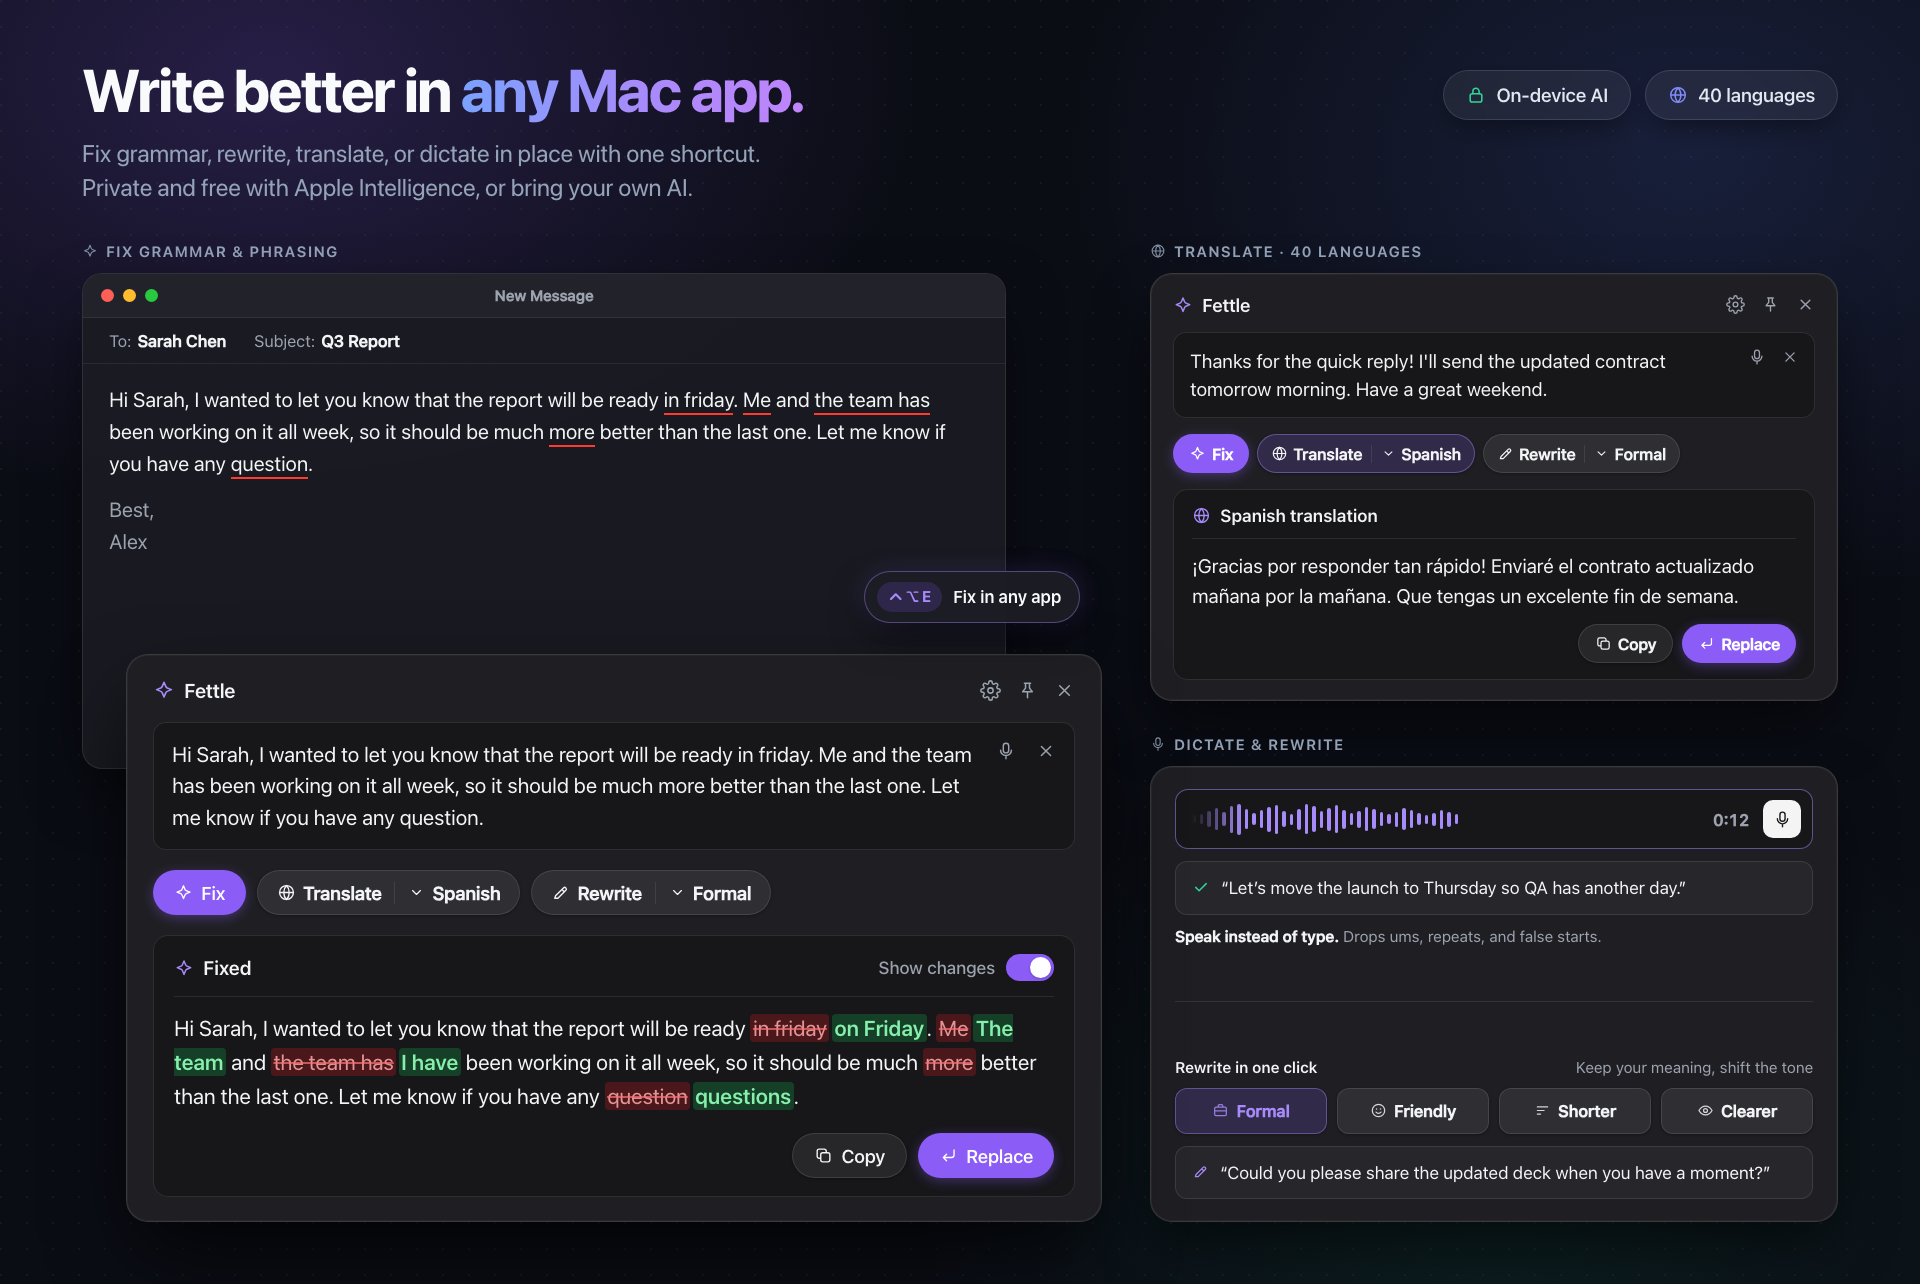
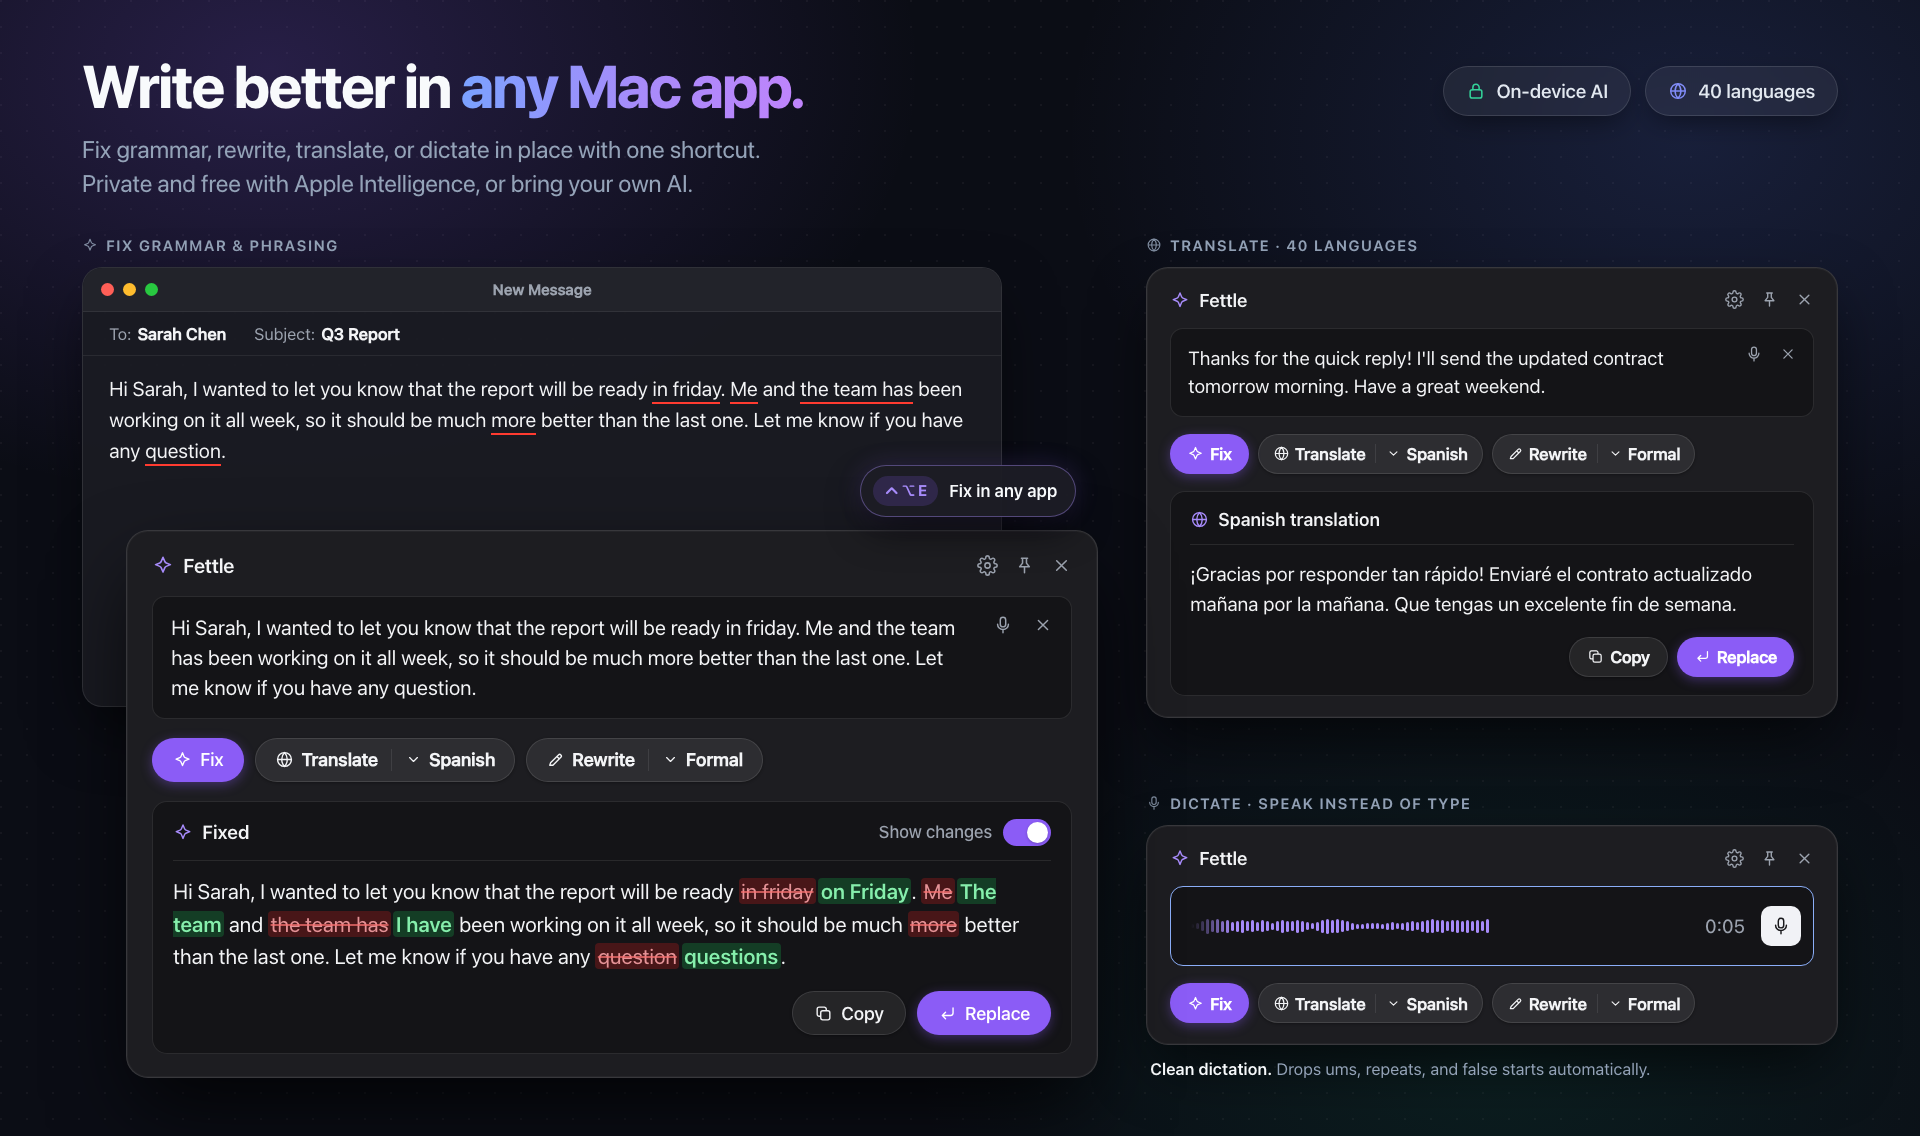
Match dictation UI in hero posters to the real app

diff --git a/README.md b/README.md
@@ -16,7 +16,7 @@ A free, open-source Grammarly alternative for macOS that can run entirely on you
 
 <picture>
   <source media="(prefers-color-scheme: dark)" srcset="docs/screenshots/hero-dark.png">
-  <img src="docs/screenshots/hero-light.png" width="840" alt="Fettle fixing grammar with inline changes over Mail, translating into Spanish, dictating by voice, and rewriting tone">
+  <img src="docs/screenshots/hero-light.png" width="840" alt="Fettle fixing grammar with inline changes over Mail, translating into Spanish, and dictating by voice">
 </picture>
 
 </div>
